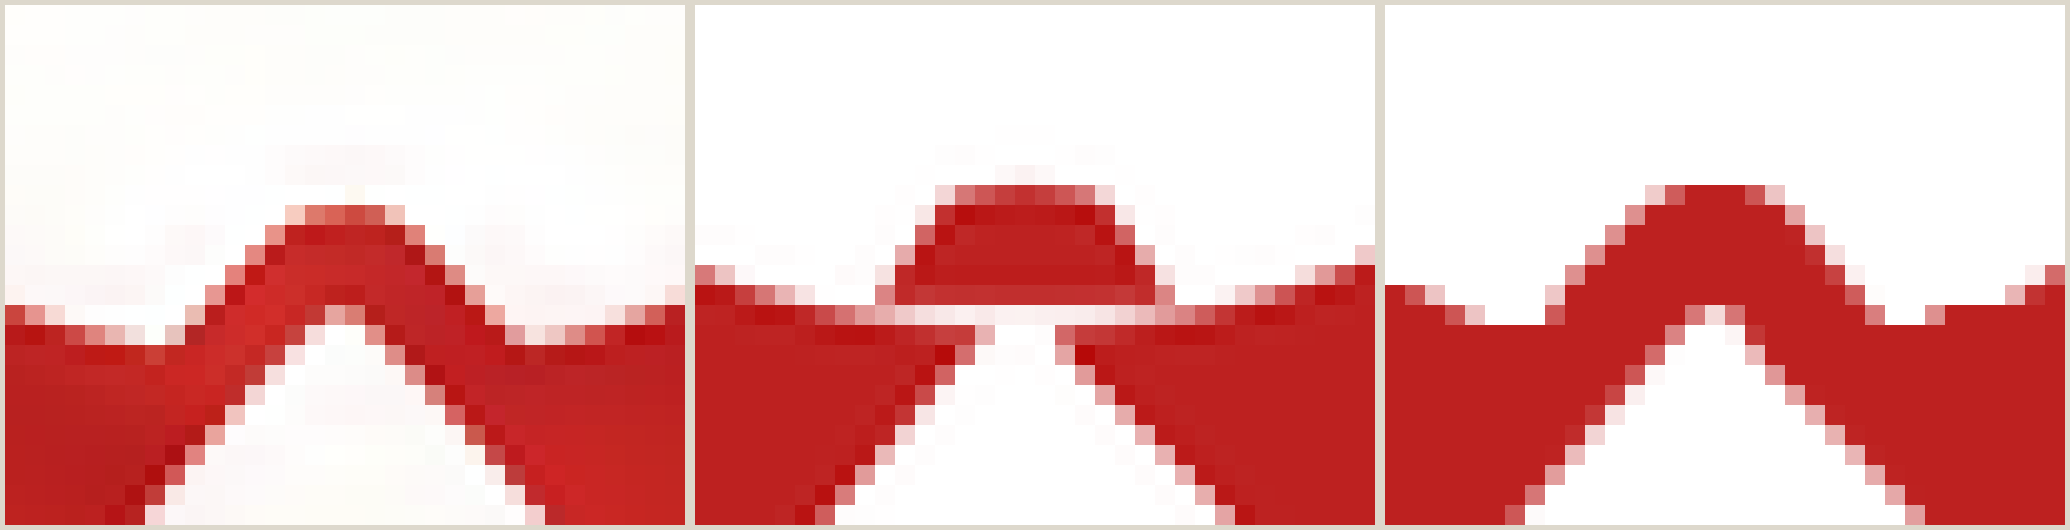
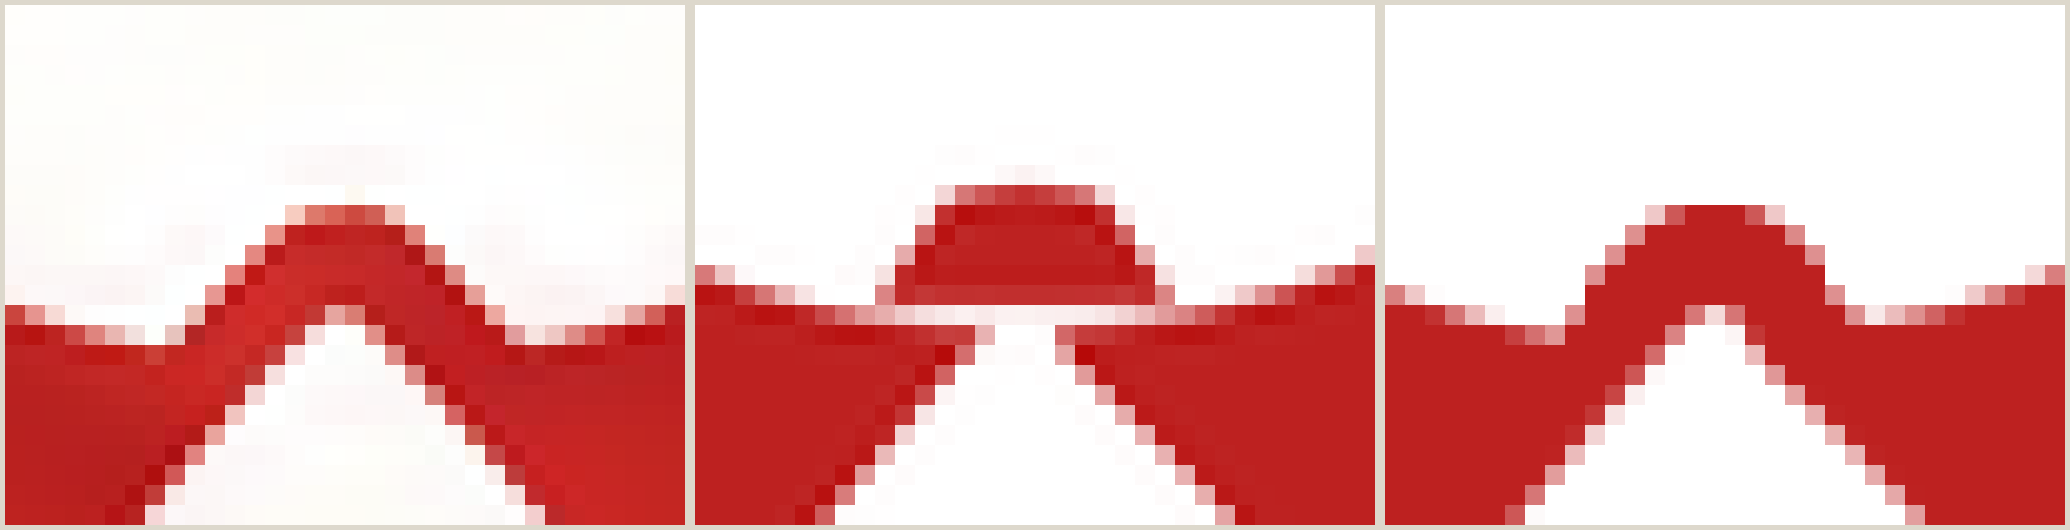
V-01: restore the sun's roundness and trim the notch protrusion
Follow-up to the junction fix. The traced-contour fix put the junction right
but introduced two new defects, both visible:

- the sun was emitted entirely as straight lines, so it read faceted instead
  of round
- the notch came from the blob contour, which runs ~2px wide of the actual
  red gap and stepped out to full width at y=120

Rebuilt the sun properly instead of tracing it.

Body: least-squares circle fitted to the sun boundary EXCLUDING the notch -
cx 200.24, cy 77.78, r 45.47, max residual 0.58px - drawn with four cubic arc
segments. Only the notch corners stay straight, because in the source they
genuinely are straight.

Notch: read straight off the mask as the red run inside the sun's own
horizontal span, row by row:

  y=116  199..202    y=120  194..206
  y=117  197..204    y=121  194..207
  y=118  196..205    y=122  193..208
  y=119  195..206

Every row now lands within 1px of the source.

Result: IoU 0.9492 -> 0.9512 at native 400, and 0.9496 at page scale.
Components in field: 1 -> 2, matching the source.

Two silent ordering bugs, both caught by counting pixels rather than by eye

1. The arc swept THROUGH the notch instead of around it. In SVG y-down,
   90deg is the bottom, and the two anchors sit at ~80deg and ~99deg, so the
   long way round must DECREASE through 0, -90, -180. Increasing went
   straight across the bottom.
2. The notch return path was built top-to-bottom on the left wall and
[…]

Changed region(s): [[0.7111, 0.3321, 0.9894, 0.6642], [0.6493, 0.5132, 0.7111, 0.6038]]

diff --git a/docs/asyada-seal/v01-audit/index.html b/docs/asyada-seal/v01-audit/index.html
@@ -74,9 +74,17 @@
   <div class="warn"><b>Güneş/tepe birleşmesi düzeltildi.</b> A2'de oyuk bir kubbe olarak
   yumuşatılmış ve y=120'de bitiyordu; bu yüzden tepe ucu onu doldurup güneşi sırtla
   <b>tek bileşende</b> birleştiriyordu. Kaynakta oyuk düz kenarlı bir V'dir, tepe ucu
-  içine girer ve aralarında kırmızı boşluk kalır. Düzeltmede güneş, girintiyi zaten içeren
-  <b>kendi raster konturuyla</b> yeniden kuruldu — kusursuz daire orada yanlış ilkel:
-  tepe satırında daire 15px geniş, kaynak 26px.</div>
+  içine girer ve aralarında kırmızı boşluk kalır.</div>
+  <p class="mono">Güneş <b>daire eksi oyuk</b> olarak yeniden kuruldu: gövde, oyuk bölgesi
+  hariç sınır noktalarından least-squares ile oturtulan bir daire —
+  <b>cx 200.24 · cy 77.78 · r 45.47</b>, artık hata en fazla <b>0.58px</b> — ve dört kübik
+  yay olarak çizildi. Yalnızca oyığın köşeleri düz kaldı; kaynakta onlar gerçekten düz.
+  Oyuk ise doğrudan maskenin kendi kırmızı boşluğundan satır satır okundu (y=116'da
+  x=199–202, y=122'de x=193–208), her satırda 1px içinde tutuluyor.</p>
+  <p class="mono">Bu arada ilk denemede iki ayrı yön hatası vardı ve ikisi de sessizce
+  oyuğu <b>dolduruyordu</b>: yayın oyuk üzerinden geçmesi (SVG'de y=90° aşağı olduğu için
+  uzun yol <b>azalan</b> açıyla dönmeli), ve oyuk dönüş yolunun yanlış yönde kurulması.
+  İkisi de piksel sayımıyla yakalandı, gözle değil.</p>
 
   <h3 class="sec">Tespit edilen farklar</h3>
   <ol class="call">
